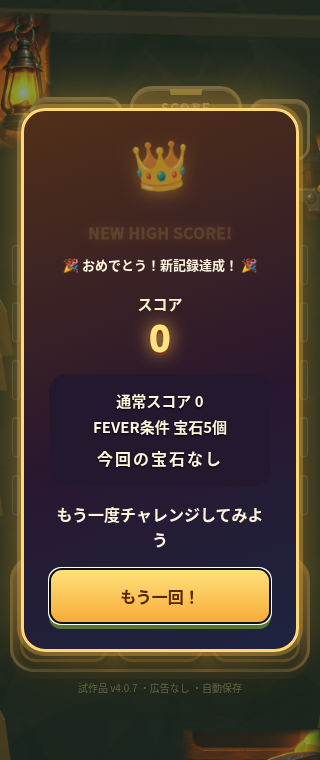
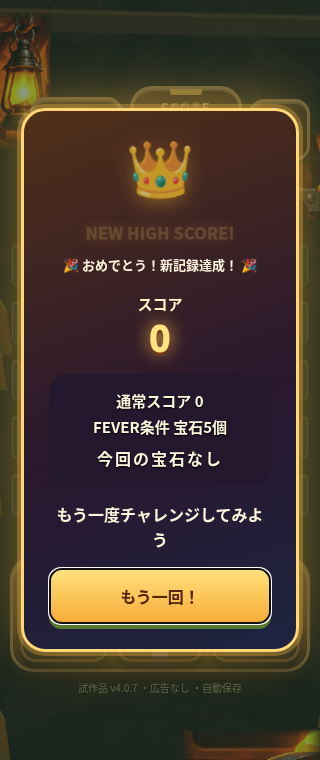
Document tested reward UI preparation and missing scoring specification

Changed region(s): [[0.4062, 0.1816, 0.5938, 0.2724]]

diff --git a/docs/reports/2026-10-25-simultaneous-reward-preparation.md b/docs/reports/2026-10-25-simultaneous-reward-preparation.md
@@ -1,0 +1,64 @@
+# ジュエルマイン開発引き継ぎ報告書
+
+作業日：2026年10月25日（UTC）
+対象：wild-uncle/jewel-mine-public
+作業ブランチ：feature/reward-balance-battery
+基準：feature/score-adaptive-piece-generation の d4c092e40cd7e1637c13d52f7e4a0e0de9f93039
+準備実装コミット：41d91a78348ce758fb2556f06cd40ce0ac26d0b9
+状態：部分完了。前回の調整指示本文が確認できず、得点との接続は保留。
+
+## 1. 完了した作業
+
+- 指定ブランチがリモートにないことを確認し、前回の修正済みコードから新規作成。
+- 再利用可能な倍率表示枠1個を追加。子要素は固定3個。×2金、×3オレンジ、×4ピンク、×5以上は鮮やかな金。
+- 720msで拡大→発光→縮小→上昇フェード。transformとopacityをアニメーションし、粒子・新規RAFループ・新規タイマーは追加していない。
+- 連続表示時は以前のアニメーションをキャンセル。終了・リセット・バックグラウンド移行で停止。非表示中は開始しない。
+- pointer-events:noneにより入力を妨げない。reduced-motion時は200msのフェードへ変更。
+- 表示関数は計算済みのラインイベント得点を受け取り、表示側では再計算しない。
+- 通常プレイからはまだ呼び出していない。誤った倍率・得点を表示しないための準備実装。
+- 変更：index.html、package.json、tests/simultaneous-reward.cjs、docsの検証結果・画像・本報告書。
+
+## 2. テスト結果
+
+ローカル成功：
+- 2・3・4・5・6・16ラインの数値・色・表示時間。
+- 1ラインでは表示しない。
+- 同じ枠の再利用、連続表示してもアニメーションが2個以内（本体と発光）、終了後0個。
+- 表示中のドラッグ、キャンセル、リセット。
+- visibilitychangeを使った非表示時停止・再発火抑制、reduced-motion。
+- 既存のピース生成・統計・保存・UI・FEVER・得点回帰。
+- Capacitor同期と構文・資産一致チェック。
+
+×4／+2400の画像は表示関数へテスト値を渡した見本であり、実際の4ライン得点の証拠ではない。
+縦横合算、FEVER中の実加点と表示得点の一致は、得点仕様確認後に接続して検証する。
+Android実機のカクつき・発熱・電池消費は未検証。
+
+## 3. GitHub反映
+
+push：成功。
+ドラフトPR： https://github.com/wild-uncle/jewel-mine-public/pull/3
+base：feature/score-adaptive-piece-generation
+既存PR #1・#2とmainには変更を追加せず、いずれもマージしていない。
+CI： https://github.com/wild-uncle/jewel-mine-public/actions/runs/40155092719
+CI：成功。回帰テスト、Androidビルド、署名・同梱HTML検証、Artifactアップロードが完了。テストの色・アニメーション数の追加検証はローカルでも成功。
+
+## 4. Android APK
+
+準備実装のAndroidデバッグAPKビルドは成功。ただし通常プレイに新倍率は出ないため、完成版APKとして扱わない。
+アプリID・既存テスト署名・保存形式・得点計算・ピース生成比率は変更していない。旧アプリのデータ削除はしていない。
+
+## 5. 未完了と理由
+
+「前回指示した大型ブロック調整・得点倍率変更・省電力改善」の本文を、この会話・リポジトリから確認できない。指定ブランチにも既存実装はなかった。
+現在の得点式は同時ライン数Lについて単純な独立倍率×Lではなく、300L＋150max(0,L−1)を元に累積倍率・FEVERとコンボ等を適用している。表示だけ×Lにすると実計算と一致しない。
+そのため、得点式や大型出現率を推測で変更せず、必要な指示本文を質問済み。
+未完了：大型調整、得点倍率変更、広範囲の省電力改善、実加点への表示接続、イベント得点一致テスト、完成版APK。
+
+## 6. 次に必要な作業
+
+前回指示の全文、特に同時倍率の対象（ライン基礎点・コンボ・累積倍率・FEVER・全消し等の適用順）を受け取る。
+指示に従って同じブランチで調整を実装し、確定した加点結果を表示へ直接渡す。縦横合算・2〜5ライン・FEVER・連続消去・入力・保存の統合テスト後、完成版APKを生成する。
+
+## 7. ChatGPTへの依頼事項
+
+前回の大型ブロック・得点倍率・省電力改善の指示本文を提示してほしい。現段階の準備実装・テスト用画像・CIビルドを、得点連動が完成したものと扱わないこと。既存PR #1・#2およびmainはマージしないこと。
